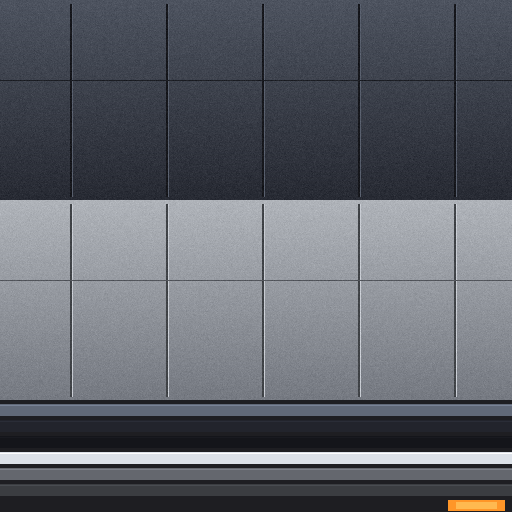
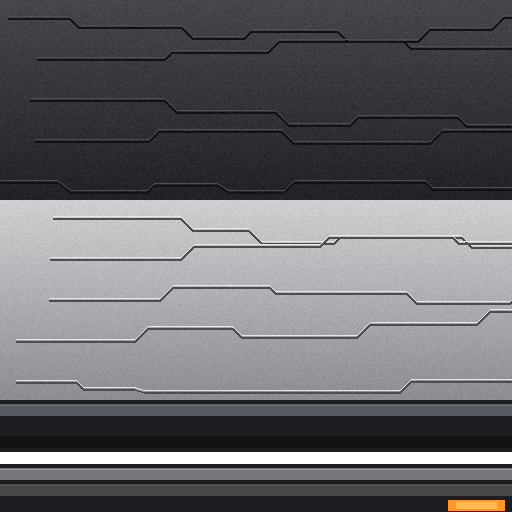
Light Rifle remade in the Forerunner way: stacked plates, lit gaps, open frame
The first take read as a Mass Effect gun (a chunky body, a solid block grip, stripes
painted on). Now: a pale upper shell, a dark core and a lower plate stacked with open
gaps, the hard light glowing in the gaps; shell and lower plate run past the core into
a split muzzle; an open frame of bars for the stock and grip; a sight shard floating
over the shell; grooves stepping at 45 degrees. Still an original model.

Claude-Session: https://claude.ai/code/session_01Ja8vbkayn83DPTjJrhXLXZ

diff --git a/generator/forerunner_guns.py b/generator/forerunner_guns.py
@@ -24,8 +24,8 @@ from hce_paths import OUT
 TEX = 512
 U = 0.01                          # profile units -> world units
 # the materials: their side colour (top and bottom of the panel's gradient) and their rim strips' rows
-ALLOY = dict(top=(78, 84, 96), bottom=(40, 43, 52))         # the core: dark blue-grey alloy
-SHELL = dict(top=(176, 180, 186), bottom=(118, 122, 130))   # the shells: pale silver plate
+ALLOY = dict(top=(70, 72, 78), bottom=(34, 35, 40))         # the core and frame: dark gunmetal
+SHELL = dict(top=(206, 208, 210), bottom=(140, 142, 146))   # the shells: pale silver-white plate
 GLOW = (255, 150, 40)
 # texture layout (pixels): the side panels, the rim strips, the glow swatch
 ALLOY_PANEL = (0, 0, 512, 200)
@@ -123,30 +123,33 @@ def side_tris_fix(g):
 
 
 # ---------------------------------------------------------------- the Light Rifle
-# a long precision rifle: a dark alloy core from the stock's fin to a square hard-light frame at the muzzle, two pale
-# shell shards floating off each side over its middle (a lower pair under them), a low sight on top with a lit lens,
-# the grip slanting back under it with a hard-light guard, hard-light seams along the shells and the core
+# a long precision rifle in the Forerunner way: stacked plates with open gaps between them (a pale upper shell, a dark
+# core, a lower plate), the hard light glowing in the gaps rather than painted on; the shell and the lower plate run past
+# the core into a split muzzle of two tines; an open frame for the stock and grip (a loop of bars round empty space); a
+# sight shard floating over the shell; a lit node on the core
 def light_rifle():
-    g = Gun((-14, -4, 27, 10))
-    core = [(-14, 3.4), (-12, 6.8), (-4, 7.4), (4, 7.6), (13, 7.0), (21, 5.8), (24.5, 5.4), (24.5, 2.6), (19, 2.2), (9, 2.0),
-            (5, 1.2), (0, 1.2), (-6, 2.0), (-10, 1.2), (-14, 1.8)]
-    g.extrude(core, -0.95, 0.95, 'alloy')
-    g.extrude([(-9, 7.0), (6, 8.2), (15, 7.6), (19, 6.0), (6, 7.2)], -0.55, 0.55, 'alloy')            # the spine's ridge
-    g.extrude([(-13.4, 2.6), (-11.8, 6.0), (-7.5, 6.5), (-8.6, 2.8)], -1.2, 1.2, 'shell')            # the stock's pale inset
-    g.mirror([(-1, 8.4), (9, 8.8), (18, 7.2), (22.5, 5.6), (14, 4.9), (3, 5.3)], 1.2, 1.7, 'shell')     # the upper shards
-    g.mirror([(8, 4.0), (15, 4.2), (20.5, 2.8), (17, 1.6), (10, 1.8)], 1.2, 1.6, 'shell')              # the lower shards
-    g.mirror([(1.5, 7.2), (14, 6.8), (14.4, 6.4), (2, 6.8)], 1.7, 1.78, 'glow')                       # the shards' seams
-    g.mirror([(10, 2.6), (16, 2.8), (16.3, 2.5), (10.2, 2.3)], 1.6, 1.68, 'glow')
-    g.mirror([(-11, 4.4), (-4, 4.8), (-4, 4.4), (-11, 4.0)], 0.95, 1.03, 'glow')                       # the stock's line
-    g.extrude([(2, 7.5), (8, 7.5), (9.4, 9.0), (3.6, 9.4)], -0.55, 0.55, 'alloy')                     # the sight
-    g.extrude([(8.8, 8.2), (9.4, 8.1), (9.6, 8.9), (9.0, 9.0)], -0.4, 0.4, 'glow')                    # its lens
-    g.extrude([(-1.2, 1.4), (2.4, 1.4), (0.2, -3.4), (-3.0, -3.2)], -0.75, 0.75, 'alloy')             # the grip
-    g.extrude([(2.2, -2.4), (6.6, 1.2), (6.6, 1.6), (1.6, -1.8)], -0.22, 0.22, 'glow')                # its guard
-    # the muzzle's square frame: bars round a lit pane
-    for bar in ([(24.5, 5.6), (26.6, 5.6), (26.6, 6.2), (24.5, 6.2)], [(24.5, 2.0), (26.6, 2.0), (26.6, 2.6), (24.5, 2.6)]):
-        g.extrude(bar, -1.25, 1.25, 'shell')
-    g.mirror([(24.5, 2.0), (26.6, 2.0), (26.6, 6.2), (24.5, 6.2)], 0.95, 1.25, 'shell')
-    g.extrude([(25.3, 2.6), (25.7, 2.6), (25.7, 5.6), (25.3, 5.6)], -0.95, 0.95, 'glow')
+    g = Gun((-14, -4.2, 26.5, 10.2))
+    g.extrude([(-9, 6.0), (-7.6, 8.2), (12, 8.2), (17, 7.5), (26.5, 6.9), (24.5, 6.0)], -1.05, 1.05, 'shell')    # upper shell
+    g.mirror([(-6, 6.5), (16, 6.5), (16.6, 6.9), (-5.6, 6.9)], 1.05, 1.15, 'alloy')                              # its dark inset line
+    g.extrude([(-6, 3.0), (-5, 5.4), (18, 5.4), (21, 4.4), (20, 2.6), (-4, 2.6)], -0.8, 0.8, 'alloy')            # the core
+    g.extrude([(-3, 5.55), (16, 5.55), (16, 5.85), (-3, 5.85)], -0.55, 0.55, 'glow')                             # light in the upper gap
+    g.extrude([(4, 1.0), (6, 2.0), (21, 2.0), (26, 1.7), (24, 1.0)], -0.95, 0.95, 'shell')                     # lower plate
+    g.extrude([(7, 2.15), (18, 2.15), (18, 2.45), (7, 2.45)], -0.5, 0.5, 'glow')                                 # light in the lower gap
+    g.mirror([(10, 1.35), (20, 1.35), (20, 1.6), (10, 1.6)], 0.95, 1.02, 'glow')                                  # the lower plate's side line
+    g.mirror([(0.2, 3.4), (1.2, 3.4), (1.6, 4.0), (1.2, 4.6), (0.2, 4.6), (-0.2, 4.0)], 0.8, 0.9, 'glow')         # the core's node
+    g.mirror([(-0.6, 3.1), (2.0, 3.1), (2.6, 4.0), (2.0, 4.9), (-0.6, 4.9), (-1.2, 4.0)], 0.8, 0.85, 'shell')      # its ring
+    g.extrude([(-5.2, 5.3), (-3.2, 5.3), (-3.6, 6.1), (-5.6, 6.1)], -0.6, 0.6, 'alloy')                          # struts: the shell's
+    g.extrude([(18.6, 1.9), (20.2, 1.9), (20.4, 2.7), (18.8, 2.7)], -0.6, 0.6, 'alloy')                          # and the lower plate's
+    # the open frame: the stock's top bar off the shell, the butt, the bar down to the grip, the grip, its guard
+    g.extrude([(-14, 6.2), (-13, 7.2), (-7.6, 7.2), (-8.4, 6.2)], -0.75, 0.75, 'alloy')
+    g.extrude([(-14, 6.2), (-12.9, 6.2), (-12.4, 1.2), (-13.6, 0.4)], -0.75, 0.75, 'alloy')
+    g.extrude([(-13.6, 0.4), (-12.4, 1.2), (-2.2, -2.4), (-2.8, -3.6)], -0.7, 0.7, 'alloy')
+    g.extrude([(-1.4, 2.7), (1.6, 2.7), (0.6, -3.6), (-2.8, -3.6)], -0.75, 0.75, 'alloy')
+    g.extrude([(1.0, -1.8), (5.0, 1.0), (5.0, 1.5), (0.6, -1.0)], -0.3, 0.3, 'alloy')
+    g.mirror([(-12.9, 4.6), (-12.6, 2.0), (-12.3, 2.0), (-12.6, 4.6)], 0.75, 0.82, 'glow')                      # a line down the butt
+    # the sight: a shard floating over the shell, its lens lit
+    g.extrude([(2, 8.8), (9, 8.8), (10.2, 9.6), (3.4, 10.2)], -0.5, 0.5, 'shell')
+    g.extrude([(9.2, 8.95), (9.8, 8.95), (10.0, 9.5), (9.5, 9.6)], -0.35, 0.35, 'glow')
     side_tris_fix(g)
     return g
 
@@ -160,12 +163,16 @@ def texture(g):
         for y in range(T, B):
             k = (y - T) / (B - T - 1)
             d.line([(L, y), (R - 1, y)], fill=tuple(int(m['top'][c] * (1 - k) + m['bottom'][c] * k) for c in range(3)))
-        # panel seams: straight, far apart, dark with a lit edge beside (Forerunner plating), one groove along
-        for x in range(L + 70, R, 96):
-            d.line([(x, T + 4), (x, B - 4)], fill=tuple(int(c * 0.55) for c in m['bottom']), width=2)
-            d.line([(x + 2, T + 4), (x + 2, B - 4)], fill=tuple(min(255, int(c * 1.15)) for c in m['top']), width=1)
-        y = T + (B - T) * 2 // 5
-        d.line([(L, y), (R, y)], fill=tuple(int(c * 0.7) for c in m['bottom']), width=1)
+        # grooves as the Forerunners cut them: long runs along the gun, stepping up or down at 45 degrees, dark with a
+        # lit edge above
+        rng2 = np.random.default_rng(11 if m is ALLOY else 13)
+        for k in range(5):
+            y = T + 18 + k * (B - T - 36) // 4; x = L + int(rng2.integers(0, 60)); pts = [(x, y)]
+            while x < R:
+                run = int(rng2.integers(50, 140)); x += run; pts.append((x, y))
+                step = int(rng2.choice([-1, 1])) * int(rng2.integers(6, 14)); y = int(np.clip(y + step, T + 8, B - 8)); x += abs(step); pts.append((x, y))
+            d.line(pts, fill=tuple(int(c * 0.55) for c in m['bottom']), width=2)
+            d.line([(px, py - 2) for px, py in pts], fill=tuple(min(255, int(c * 1.12)) for c in m['top']), width=1)
     for (mat, facing), y in STRIPS.items():
         m = ALLOY if mat == 'alloy' else SHELL
         k = {'up': 1.25, 'mid': 0.85, 'down': 0.5}[facing]

diff --git a/generator/README.md b/generator/README.md
@@ -83,7 +83,7 @@ for f in core covenant flood sentinels marines; do (cd factions/$f && zip -r9 ..
 | `extract_marine_kit.py` | Elefant's Marine kit: `marine.blend` (`HCE_MARINE_KIT`) with `elefant.zip` (`HCE_MARINE_KIT_ZIP`) and Halo CE's own bitmaps (`HCE_MAPS`) -> one IQM per accessory on the Marine skeleton plus `MarineKit.json` (slots, per-body pools). Headgear rides the head bone (a whole head with a face keeps its jaw for the lip-sync), so helmets sit straight and chin guards don't stretch. `python3 extract_marine_kit.py <piece> ...` rebuilds only those pieces. Read without Blender (`lib/elefant_kit.py`). `build_pack.py` rolls the pieces per Marine as model attachments. Run after `extract_chars.py` and `jaw_weights.py` |
 | `extract_mr_marines.py` | Mercury Rising's medic (`out/models/MarineMedic`, from `extract_spv3.py`) as a Marine kit piece, `mr_medic_body.iqm`, a whole body on the CE Marine's skeleton (its skeleton is the Marine's 20 bones by name, its bind pose the Marine's), so `build_pack.py` hides the Marine under it (`HCE_MarineFieldMedic<Gun>`) and it plays every Marine animation. Its white armour takes the Marines' olive drab through the change-colour mask; the medic's face, a placeholder in the map, is the CE Marine's Marcus face (the same mesh). Run after `extract_marine_kit.py` |
 | `extract_shigure_marine.py` | Shigure's Marine rifleman from Sabopool's Halo CE Overhaul 2.0 (`out/models/MarineShigure`, from `extract_spv3.py`'s `sabo` map) as a Marine kit piece, `shigure_body.iqm`, a whole body on the CE Marine's skeleton like the medic (`build_pack.py`'s `HCE_MarineRifleman<Gun>`, `SHIGURE_GUNS`). His armour's painted green turned to the brown of the mod's armoured Marine (`BROWN`: hue, saturation and brightness matched, shading kept; only textures mostly green: the face, balaclava and glasses keep theirs); his hands, which borrow scraps of the armour texture, split off onto a surface of their own, box-mapped onto a seamless tile of the mod's ODST glove (`GLOVE_BITMAP`, read from the map: `HCE_SABO_C40`, `HCE_SABO_BITMAPS`). Run after `extract_marine_kit.py` |
-| `forerunner_guns.py` | Forerunner guns of the pack's own, modelled and textured here from scratch (no game's model): each a few flat-sided parts, side profiles pushed out across the gun's width, in Halo's weapon space; one 512 texture per gun with its light painted in Halo CE's way (side panels, rim strips lit by which way they face, a hard-light swatch). So far the Light Rifle (`m_light_rifle`, 336 triangles: a dark alloy core, pale shell plates floating off it, orange hard light in the seams, a square hard-light frame at the muzzle). Its overlays for the Marine bodies (`<Char>_w_light_rifle.iqm`) are written at each body's gun hand; the Marines' classes for it come with the MARINE_ARSENAL row once the set is done. HDE-Maps' `tools/ce_guns.py` puts it in the multiplayer Spartans' hands |
+| `forerunner_guns.py` | Forerunner guns of the pack's own, modelled and textured here from scratch (no game's model): each a few flat-sided parts, side profiles pushed out across the gun's width, in Halo's weapon space; one 512 texture per gun with its light painted in Halo CE's way (side panels, rim strips lit by which way they face, a hard-light swatch). So far the Light Rifle (`m_light_rifle`, 340 triangles): stacked plates with open gaps between them (a pale upper shell, a dark core, a lower plate, held by two struts), the orange hard light glowing in the gaps, the shell and lower plate running past the core into a split muzzle, an open frame of bars for the stock and grip, a sight shard floating over the shell, a lit node on the core; grooves along it that step at 45 degrees. Its overlays for the Marine bodies (`<Char>_w_light_rifle.iqm`) are written at each body's gun hand; the Marines' classes for it come with the MARINE_ARSENAL row once the set is done. HDE-Maps' `tools/ce_guns.py` puts it in the multiplayer Spartans' hands |
 | `ma37_shigure.py` | Shigure's MA37 (`Raw Assets/ma37.zip`: a Blender 5 file with PBR textures) -> `out/weapons/m_ma37`: the gun scaled to the CE assault rifle's length, its origin on the pistol grip, one texture (base colour plus the ammo counter's emission). `marine_arsenal.py` runs it for the `ma37` entry |
 | `extract_h2_odst.py` | Halo 2's ODST (the Halo 2 Marine's `odst` body and head, `01b_spacestation.map`) as two Marine kit pieces: `h2_odst_body.iqm`, the whole ODST, each vertex carried from its Halo 2 bones' bind poses to the matching CE bones' (fingers, toes and face follow the hand, foot and head) with its weights, so it plays every Marine animation (`build_pack.py` hides Spiral's ODST under it for `HCE_MarineOdstHalo2*`); and `h2_odst_helmet.iqm`, the helmet alone on the CE head bone with its neck collar cut off, kept as a kit piece (no Marine outfit rolls it: the Marines don't wear Halo 2's helmet). The armour's colour map is brought up to its bump map's size and weathered like the CE Marines' painted textures: the bump map's shading, Halo 2's detail map (`metal_dirty`), grime in the crevices and worn plate edges (from the bump map's height field), broad dirty patches and the plates' sheen (Halo 2's specular mask) baked in; the visor is Halo 2's dark bluish purple (`build_pack.py` tints the kit's reflective visor texture, `KIT_VISOR_TINTS`). Run after `extract_marine_kit.py` |
 | `extract_halo_gore.py` | Halo CE and Halo 2 blood for the Halo gore, which also layers on Nash's Gore Mod when the player loads it (split per faction pack by `split_factions.py`, code in the core): the blood-splat decals (CE sprite sheets cut by their sequence rectangles, Halo 2's 2x2 sheets from `08b_deltacontrol.map` + `textures.dat`), converted from Halo's multiply / add blending to plain RGBA, grouped per species in `decaldef.hcegore`; the blood bursts and blood trails as white sprite masks (`HGBP`, `HGBS`). Output in `out/gore`; `split_factions.py` gives each faction pack its species' decals (Covenant, Flood, Marines) and puts `pack/ZScript/HaloCE/hce_gore.zsc` in the core. Marines bleed too (`HCEGore_Human`: Halo CE's red human splats and its blood pool for deaths); the impact puffs come per blood: Halo CE's Covenant impact burst (`HGBC`) for the Covenant, its human impact (`HGBH`) for the Marines, the generic bursts (`HGBP`) for the beasts. The skid marks (the smears a thrown body drags along the floor) are tinted per species to the alpha-weighted mean colour of its own splats, so each race skids in its blood's colour `RECOLOURED`: a species with no blood in the games takes another's shapes in its own `build_pack.BLOOD` colour (the Reavers: the Elite's, emerald green), shading kept |
